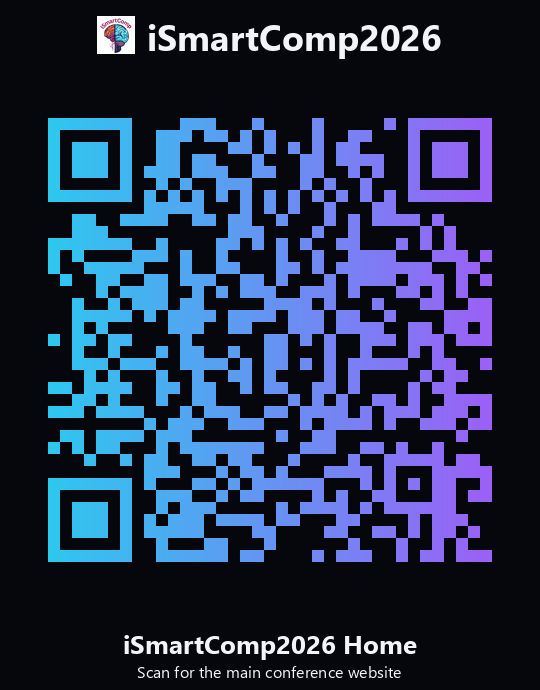
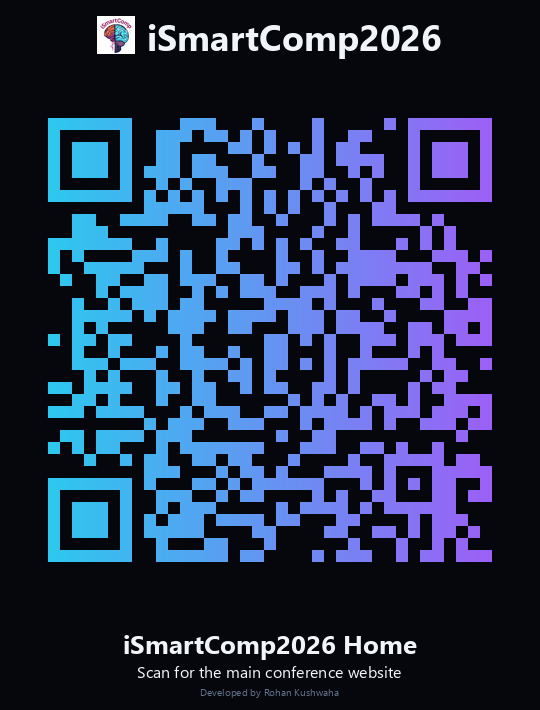
Add developer watermark to QR code images

diff --git a/scripts/generate_qr.py b/scripts/generate_qr.py
@@ -43,7 +43,7 @@ def create_labeled_qr(data, text, filename, subtitle="Scan for location details"
     # Calculate sizes
     qr_w, qr_h = qr_img.size
     header_h = 70  # Space for conference title at top
-    footer_h = 80  # Space for location name and instructions at bottom
+    footer_h = 100  # Space for location name, instructions, and watermark at bottom
     
     # Create new image with extra space at top and bottom
     new_img = Image.new('RGB', (qr_w, qr_h + header_h + footer_h), bg_color)
@@ -56,15 +56,18 @@ def create_labeled_qr(data, text, filename, subtitle="Scan for location details"
         font_main_title = ImageFont.truetype("segoeuib.ttf", 36) # Conference Title (Header)
         font_loc_name = ImageFont.truetype("segoeuib.ttf", 26)   # Location Name (Footer)
         font_sub = ImageFont.truetype("segoeui.ttf", 16)         # Instructions (Footer)
+        font_watermark = ImageFont.truetype("segoeui.ttf", 10)   # Watermark
     except IOError:
         try:
             font_main_title = ImageFont.truetype("arialbd.ttf", 36)
             font_loc_name = ImageFont.truetype("arialbd.ttf", 26)
             font_sub = ImageFont.truetype("arial.ttf", 16)
+            font_watermark = ImageFont.truetype("arial.ttf", 10)
         except IOError:
             font_main_title = ImageFont.load_default()
             font_loc_name = ImageFont.load_default()
             font_sub = ImageFont.load_default()
+            font_watermark = ImageFont.load_default()
             
     # Draw Header (Logo + Conference Title)
     conf_title = "iSmartComp2026"
@@ -104,6 +107,13 @@ def create_labeled_qr(data, text, filename, subtitle="Scan for location details"
     text_x_inst = (qr_w - (bbox_inst[2] - bbox_inst[0])) // 2
     text_y_inst = text_y_loc + 35
     draw.text((text_x_inst, text_y_inst), instruction_text, fill=text_color, font=font_sub)
+    
+    # Draw Watermark
+    watermark = "Developed by Rohan Kushwaha"
+    bbox_wm = draw.textbbox((0, 0), watermark, font=font_watermark)
+    text_x_wm = (qr_w - (bbox_wm[2] - bbox_wm[0])) // 2
+    text_y_wm = text_y_inst + 25
+    draw.text((text_x_wm, text_y_wm), watermark, fill="#64748b", font=font_watermark) # muted text color
     
     filepath = os.path.join(OUTPUT_FOLDER, filename)
     new_img.save(filepath)
